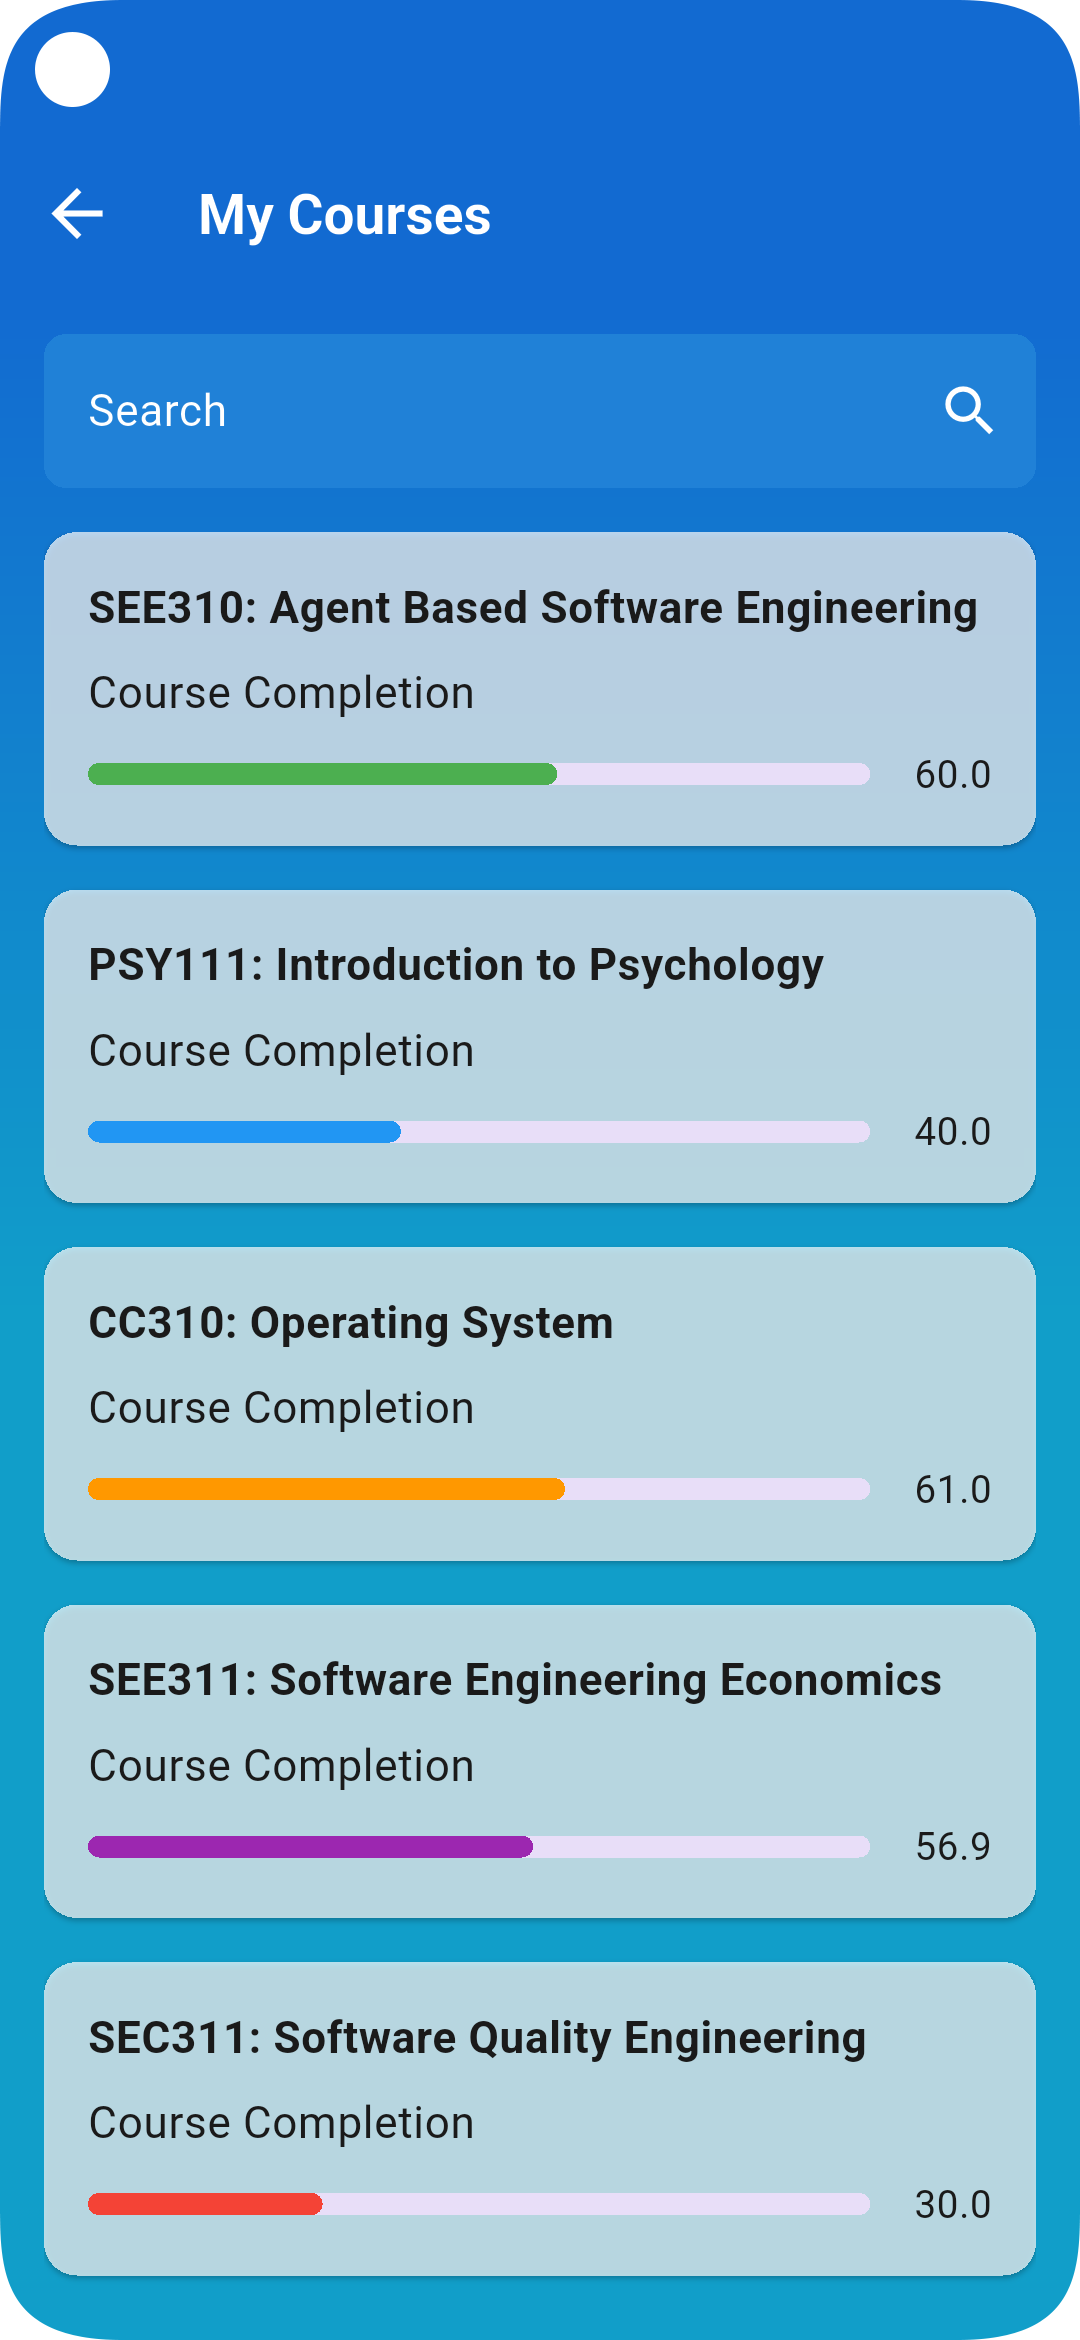
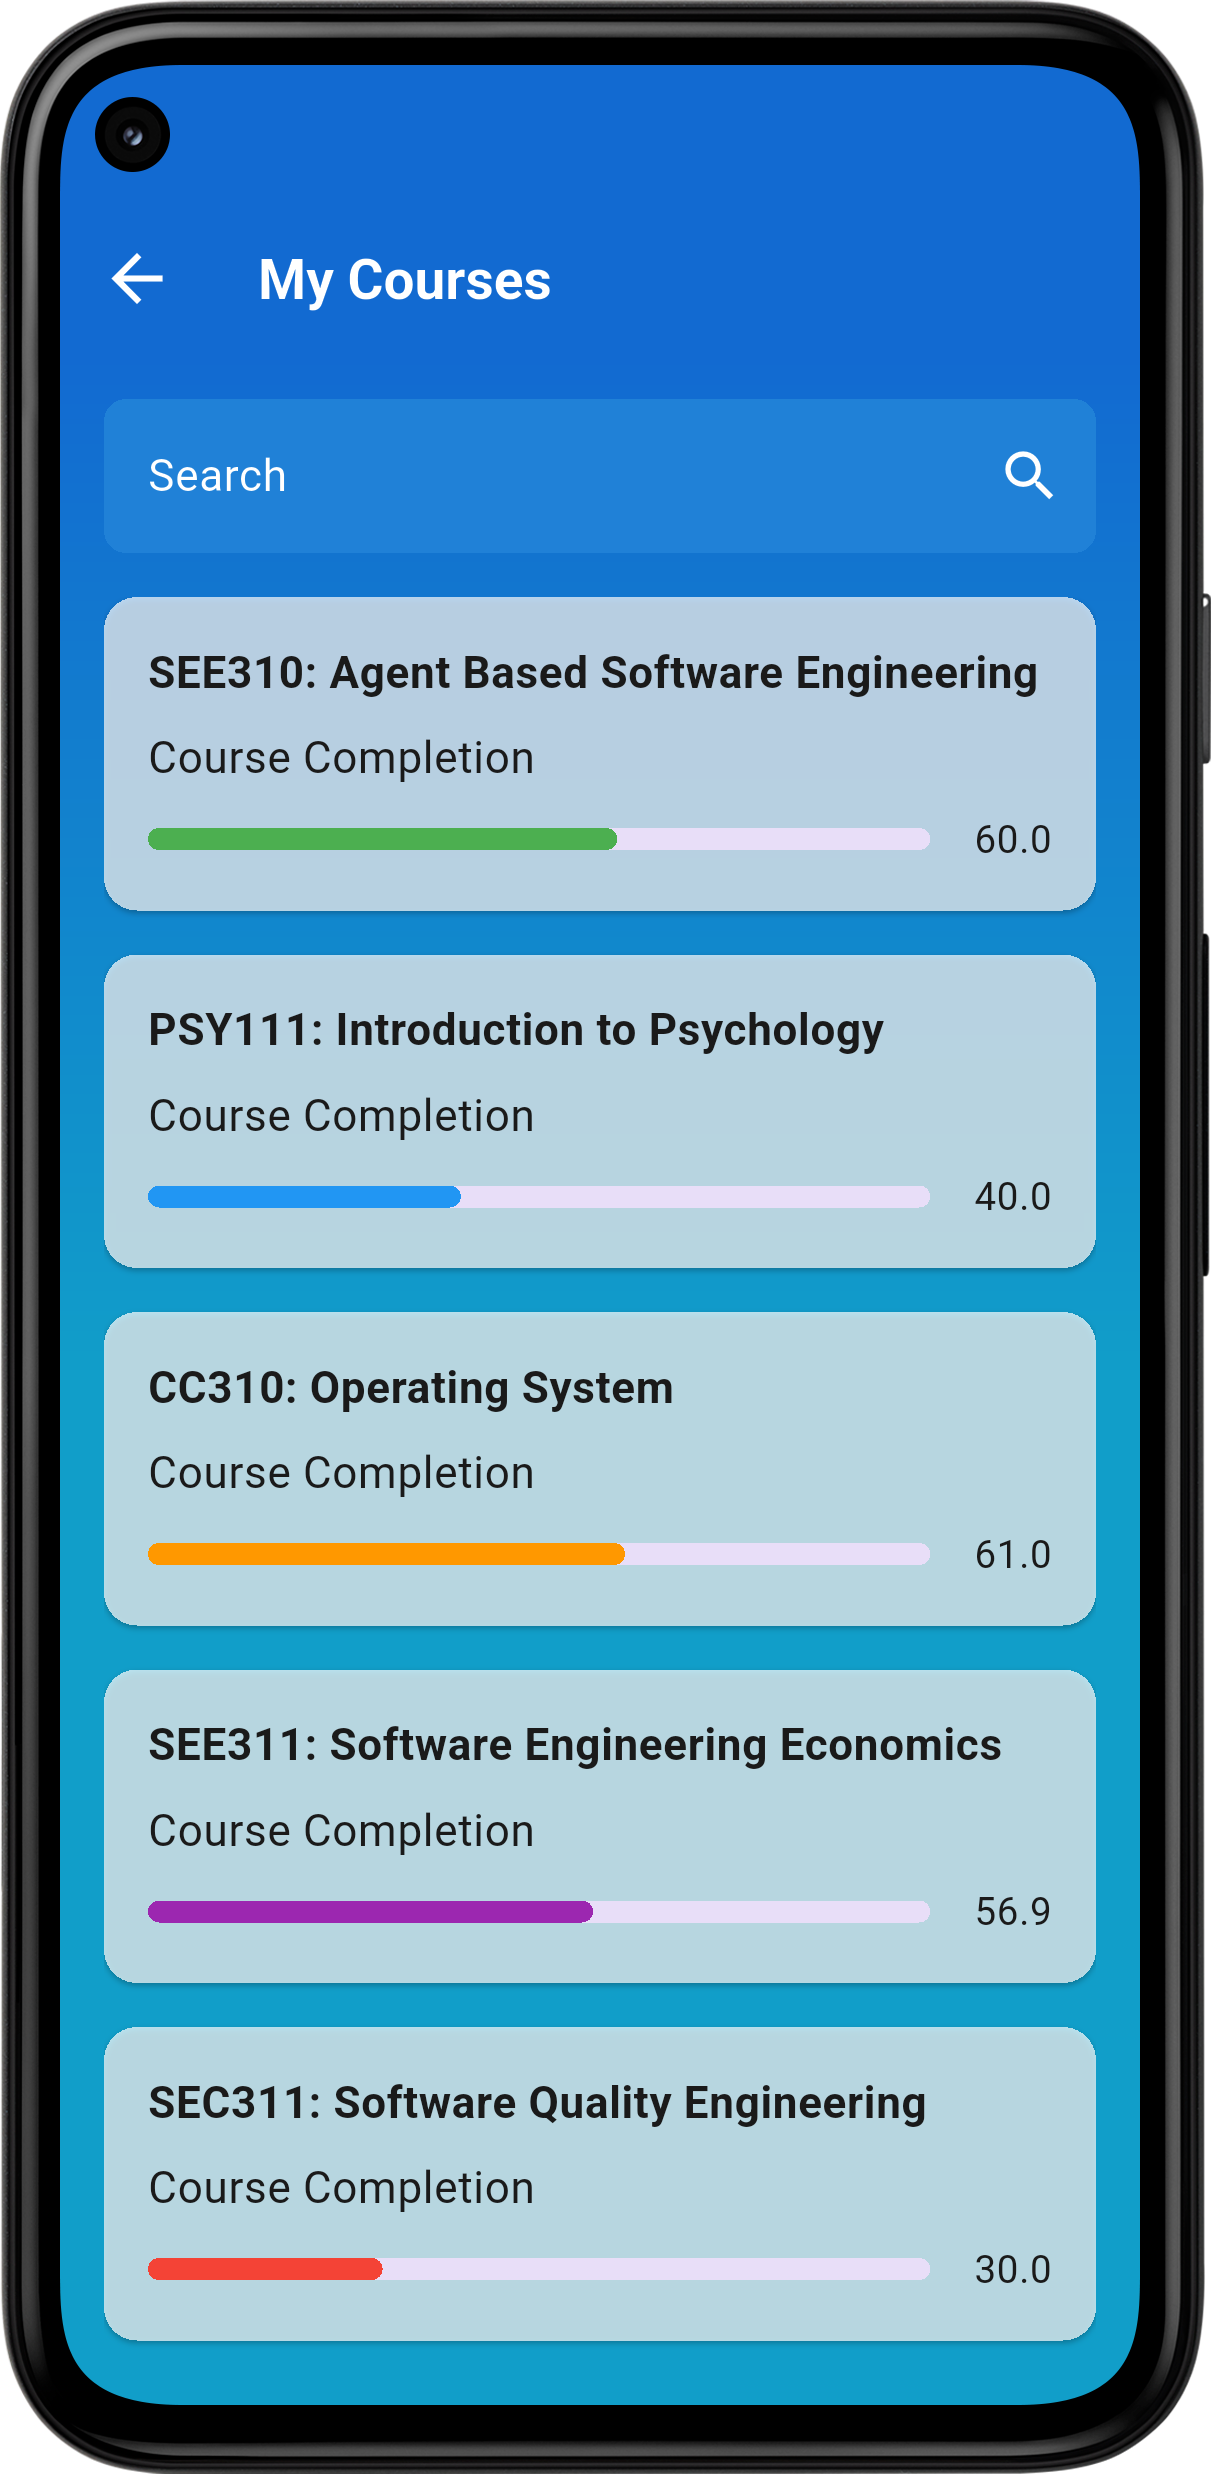
Updated README and added project documentation

diff --git a/lib/main.dart b/lib/main.dart
@@ -1,15 +1,7 @@
 import 'package:flutter/material.dart';
 import 'features/auth/screens/login_screen.dart';
-import 'package:flutter/services.dart';
-
 
 void main() {
-
-  WidgetsFlutterBinding.ensureInitialized();
-
-  // Hide status bar, time, battery, and make full screen
-  SystemChrome.setEnabledSystemUIMode(SystemUiMode.immersiveSticky);
-
   runApp(const AustApp());
 }
 

diff --git a/README.md b/README.md
@@ -1,18 +1,60 @@
 # Aust-Campus-App
 A simple and responsive university app UI built with Flutter. Features a splash screen, drawer navigation, dashboard items, profile section, and reusable components. Developed as a learning project to explore Flutter development, practice UI design, and implement clean architecture principles.
 
+
 # Login Screen 
-A clean sign-in screen where users enter their roll number and password. Includes password visibility toggle, forgot password navigation, and a gradient background.
 <img src="assets/screenshots/login.png" width="300">
+A clean sign-in screen where users enter their roll number and password. Includes password visibility toggle, forgot password navigation, and a gradient background.
 
 
-# Register Screen 
-Screen for new users to create an account. Enter CNIC, Email, Roll Number, and Password. Tap **Register** to proceed to the dashboard or **Login** if you already have an account.
-![Register Screen](assets/screenshots/vv.png)
+# Register Screen
+![Register Screen](assets/screenshots/register.png) 
+Screen for new users to create an account. Enter CNIC, Email, Roll Number, and Password. Tap Register to proceed to the dashboard or Login if you already have an account.
 
-# Register Screen 
-Screen for new users to create an account. Enter CNIC, Email, Roll Number, and Password. Tap **Register** to proceed to the dashboard or **Login** if you already have an account.
-![Register Screen](assets/screenshots/vv.png)
+
+### Forgot Password Screen
+![Forgot Password Screen](assets/screenshots/forgot_password.png)  
+Allows users to reset their password by entering their email, new password, and confirming it. Tap Update to save changes and return to the login screen. Option to navigate to Register if the user doesn’t have an account.
+
+
+### Dashboard Screen
+![Dashboard Screen](assets/screenshots/dashboard.png)  
+Main app screen displaying key sections like Courses, Timetable, Notices, Exams & Grades, Profile, and Settings. Tap any card to navigate to the respective section. Includes a navigation drawer and app bar for quick access.
+
+
+### Course Screen
+![Course Screen](assets/screenshots/course.png)  
+Displays a list of courses with completion percentages and progress bars. Includes a search field to quickly find courses. Each card shows the course title, completion status, and color-coded progress indicator.
+
+
+### Timetable Screen
+![Timetable Screen](assets/screenshots/timetable.png)  
+Shows the weekly timetable with course codes, titles, and class timings. Each entry is displayed in a card with a clear layout for easy reference.
+
+
+### Notice Screen
+![Notice Screen](assets/screenshots/notice.png)  
+Displays university notices with title, date, and a short description. Includes a search field to quickly find important updates and announcements.
+
+
+### Exam & Grades Screen
+![Exam & Grades Screen](assets/screenshots/exam_grades.png)  
+Shows GPA for each semester and a list of upcoming exams with subject, date, and venue. Helps students track academic performance and exam schedule in one place.
+
+
+### Profile Screen
+![Profile Screen](assets/screenshots/profile.png)  
+Displays user information including name, roll number, program, semester, email, and phone number. Users can view their profile picture and tap **Edit Profile** (currently non-functional) to update details.
+
+
+### Settings Screen
+![Settings Screen](assets/screenshots/setting.png)  
+Lists app settings including account, notifications, reminders, privacy, help, and about sections. Each item is displayed in a clean card layout for easy navigation.
+
+
+### App Drawer
+![App Drawer](assets/screenshots/drawer.png)  
+Provides quick navigation to Home, Profile, and Settings. Includes a logout button and uses a clean header design for easy access to app sections.
 
 
 
